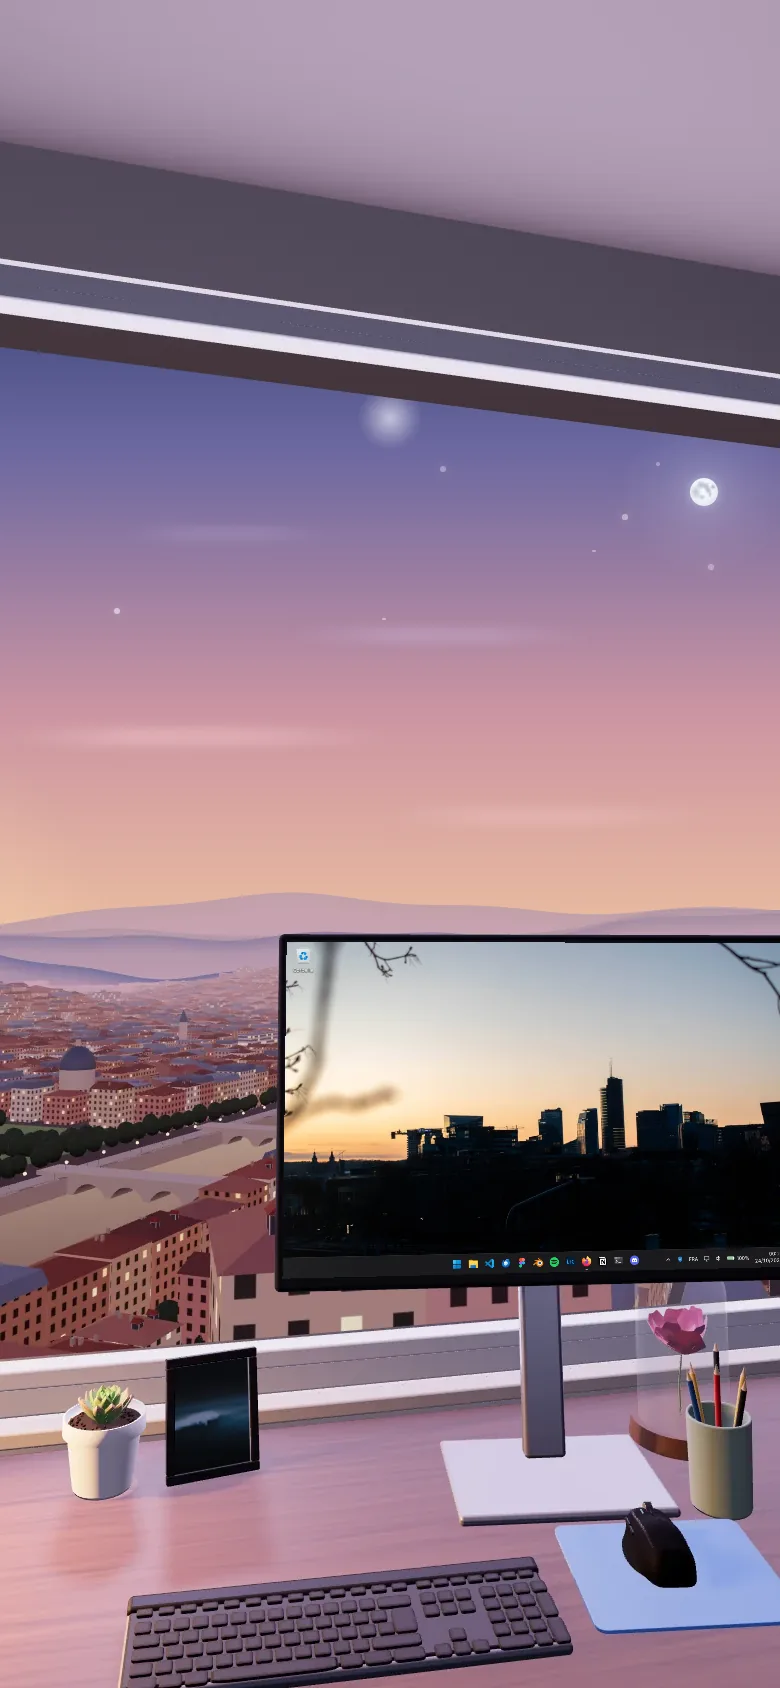
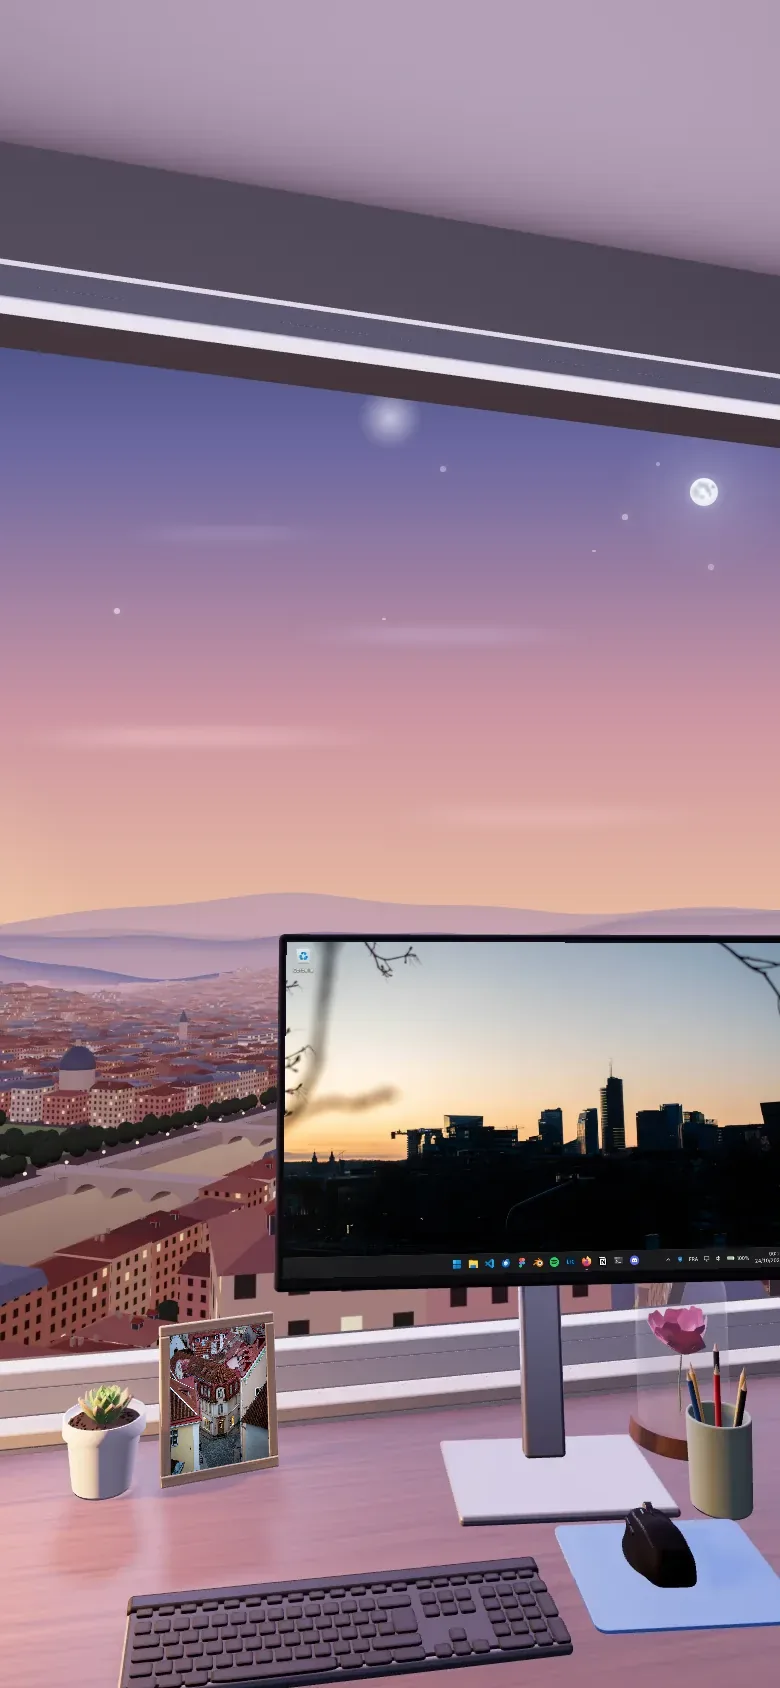
✨ feat(office): enlarge the desk frame in light wood with Grégoire's photos
- The small frame on the desk is 1.3 times larger, in the same 4:5 format, in light wood with its grain along each side.
- The wave moves to the portrait photo frame of the wall; the desk frame draws from 14 photos by Grégoire.
- The desk layers, their placement and the still images are redrawn; the office spec follows.

Changed region(s): [[0.1846, 0.7701, 0.3692, 0.8934]]

diff --git a/src/scene/office/objects.ts b/src/scene/office/objects.ts
@@ -59,7 +59,7 @@ const PLACES = {
   mouse: [0.67, -0.775, -0.2, 0.0036],
   lamp: [-0.5, -1.04, 0],
   plant: [-0.68, -0.6, 0.4],
-  frame: [0.19, -1.07, 0.16],
+  frame: [0.2, -1.07, 0.16],
   succulent: [0.05, -1.08, 0.3],
   rose: [0.85, -1.04, 4.26],
   pencils: [0.8, -0.86, 0],
@@ -77,15 +77,22 @@ const lathe = (points: readonly (readonly [number, number])[], material: Materia
     material,
   );
 
-function woodTexture(): ReturnType<typeof canvasTexture> {
+/** A wood grain running along the texture's width: the desk's dark wood, or the light wood of the photo frame. */
+const WOODS = {
+  dark: { base: '#5a3a26', grain: ['38,22,13', '118,80,50'] },
+  light: { base: '#d8bc94', grain: ['150,108,68', '240,222,196'] },
+} as const;
+
+function woodTexture(kind: keyof typeof WOODS = 'dark'): ReturnType<typeof canvasTexture> {
+  const { base, grain } = WOODS[kind];
   return canvasTexture(1024, 256, (ctx, w, h) => {
-    ctx.fillStyle = '#5a3a26';
+    ctx.fillStyle = base;
     ctx.fillRect(0, 0, w, h);
     const r = rng(41);
     for (let i = 0; i < 150; i += 1) {
       const y = r() * h;
       const amp = 2 + r() * 6;
-      ctx.strokeStyle = `rgba(${r() < 0.5 ? '38,22,13' : '118,80,50'},${String(0.07 + r() * 0.16)})`;
+      ctx.strokeStyle = `rgba(${r() < 0.5 ? grain[0] : grain[1]},${String(0.07 + r() * 0.16)})`;
       ctx.lineWidth = 0.6 + r() * 2.2;
       ctx.beginPath();
       for (let x = 0; x <= w; x += 16) {
@@ -565,23 +572,29 @@ function buildPlant(): Group {
 }
 
 /**
- * A small photo frame standing on the desk, leaning back on its strut: a slim black frame around a photo in the 4:5
- * format, whose face is white (the site lays a photo over it, picked at random).
+ * A small photo frame standing on the desk, leaning back on its strut: a slim frame of light wood around a photo in
+ * the 4:5 format, whose face is white (the site lays a photo over it, picked at random). The grain runs along each
+ * side of the frame.
  */
 function buildDeskFrame(): Group {
   const g = new Group();
-  const iw = 0.1;
-  const ih = 0.125;
-  const bd = 0.011;
+  const iw = 0.13;
+  const ih = 0.1625;
+  const bd = 0.013;
   const ow = iw + 2 * bd;
   const oh = ih + 2 * bd;
+  const across = woodTexture('light');
+  across.repeat.set(0.25, 0.05);
+  const along = across.clone();
+  along.rotation = Math.PI / 2;
+  const rail = std(0xffffff, 0.6, 0, { map: across });
+  const stile = std(0xffffff, 0.6, 0, { map: along });
   const face = new Group();
-  const black = std(0x1d1b1a, 0.55);
-  face.add(box(ow, bd, 0.012, black, 0, oh - bd / 2, 0, 0.002));
-  face.add(box(ow, bd, 0.012, black, 0, bd / 2, 0, 0.002));
-  face.add(box(bd, ih, 0.012, black, -ow / 2 + bd / 2, oh / 2, 0, 0.002));
-  face.add(box(bd, ih, 0.012, black, ow / 2 - bd / 2, oh / 2, 0, 0.002));
-  face.add(box(ow - 0.004, oh - 0.004, 0.003, std(0x2a2725, 0.8), 0, oh / 2, -0.0045));
+  face.add(box(ow, bd, 0.012, rail, 0, oh - bd / 2, 0, 0.002));
+  face.add(box(ow, bd, 0.012, rail, 0, bd / 2, 0, 0.002));
+  face.add(box(bd, ih, 0.012, stile, -ow / 2 + bd / 2, oh / 2, 0, 0.002));
+  face.add(box(bd, ih, 0.012, stile, ow / 2 - bd / 2, oh / 2, 0, 0.002));
+  face.add(box(ow - 0.004, oh - 0.004, 0.003, std(0xb59670, 0.8), 0, oh / 2, -0.0045));
   const picture = box(iw, ih, 0.0015, std(0xffffff, 0.9), 0, oh / 2, 0.0035);
   picture.name = 'picture-desk';
   const data: PictureData = { type: 'photo', w: iw, h: ih, d: 0.0015 };
@@ -589,7 +602,7 @@ function buildDeskFrame(): Group {
   face.add(picture);
   face.rotation.x = -11 * DEG;
   g.add(face);
-  const strut = box(0.018, 0.12, 0.004, black, 0, 0.055, -0.045);
+  const strut = box(0.022, 0.155, 0.004, stile, 0, 0.07, -0.058);
   strut.rotation.x = 0.42;
   g.add(strut);
   return g;

diff --git a/docs/specs/2026-10-21-maquette-v3-bureau.md b/docs/specs/2026-10-21-maquette-v3-bureau.md
@@ -35,17 +35,17 @@ Le parcours finit là où le rêve commence : la caméra repasse par la fenêtre
   - à gauche, six images collées directement au mur avec de la Patafix, invisible, qui remplissent tout le mur jusqu'à la fenêtre, quitte à passer derrière le texte du contact, la lampe et la plante : des affiches et une pochette imprimées à fond perdu, des photos et une image de film tirées avec leur liseré blanc, une peinture avec la large marge d'un tirage d'art (voir « Les images » ci-dessous) ;
   - à partir du centre, une grande baie d'un seul tenant, au cadre fin et blanc, sans montant, qui s'étend vers la droite jusqu'à sortir du cadre, derrière l'écran ; son appui est juste au-dessus du plateau du bureau. Le ciel occupe le haut, la ville le bas ;
   - à droite, au premier plan, l'écran sur son pied, au format 16:10 d'un écran de bureau classique (un 32 pouces), à peine tourné vers nous (tourné davantage, il paraîtrait étiré au bord d'une vue aussi large), le MX Keys devant lui et, à sa droite, une souris dans l'esprit de la Logitech G502 de Grégoire (dos haut, large repose-pouce, boutons latéraux, molette cerclée de métal, trois petites lumières bleues), posée sur un petit tapis de souris bleu pastel ;
-  - le bureau est en bois sombre. La lampe allumée, dans l'esprit de l'Anglepoise Type 75 Mini (pied rond, un seul bras courbe, tête faite d'un court cylindre qui s'évase en cloche, éclairée dedans), se tient à gauche entre les images et la fenêtre et éclaire le bureau à gauche du clavier, pas la plante ; elle cache bien moins les images qu'avant, et pas la ville ; la plante au coin gauche, petite et basse pour cacher peu le mur (réduite le 23 octobre 2026), dont chaque tige finit sur une feuille ; un petit cadre photo noir (une photo de 10 × 12,5 cm), posé contre l'appui de la fenêtre, à gauche du pied de l'écran, et à sa gauche une plante grasse à peu près de la taille du cadre, dans un pot blanc : une échévéria d'après la photo de Grégoire, rosette compacte de feuilles charnues, plates et pointues, en cuillère, vert tendre au centre, les plus extérieures rosées à la pointe, un peu plus petite que l'ouverture du pot pour qu'on voie la terre autour (23 octobre 2026) ; la rose sous son globe au fond à droite, sous l'écran surélevé, entre son pied et le pot à crayons ; le pot à crayons à droite de l'écran.
+  - le bureau est en bois sombre. La lampe allumée, dans l'esprit de l'Anglepoise Type 75 Mini (pied rond, un seul bras courbe, tête faite d'un court cylindre qui s'évase en cloche, éclairée dedans), se tient à gauche entre les images et la fenêtre et éclaire le bureau à gauche du clavier, pas la plante ; elle cache bien moins les images qu'avant, et pas la ville ; la plante au coin gauche, petite et basse pour cacher peu le mur (réduite le 23 octobre 2026), dont chaque tige finit sur une feuille ; un petit cadre photo en bois clair (une photo de 13 × 16,25 cm ; agrandi et passé du noir au bois clair le 30 octobre 2026 à la demande de Grégoire), posé contre l'appui de la fenêtre, à gauche du pied de l'écran, et à sa gauche une plante grasse à peu près de la taille du cadre, dans un pot blanc : une échévéria d'après la photo de Grégoire, rosette compacte de feuilles charnues, plates et pointues, en cuillère, vert tendre au centre, les plus extérieures rosées à la pointe, un peu plus petite que l'ouverture du pot pour qu'on voie la terre autour (23 octobre 2026) ; la rose sous son globe au fond à droite, sous l'écran surélevé, entre son pied et le pot à crayons ; le pot à crayons à droite de l'écran.
 - **Les images** (23 octobre 2026) :
   - **cinq types** : affiche de film (cadre 2:3), image de film (16:9, type créé pour l'image de Spider-Verse), peinture (3:2), photo (un cadre 4:5 en portrait et un 4:3 en paysage au mur, le petit cadre 4:5 du bureau) et pochette d'album (1:1) ;
   - **sur le mur**, sur ordinateur seulement (sur mobile, le mur est hors champ), six cadres disposés comme les aplats d'avant : en haut, l'image de film et la peinture ; à gauche, l'affiche, plus grande qu'avant (42 × 63 cm) ; à droite, une colonne avec la photo en portrait, la photo en paysage, derrière le texte du contact, et la pochette. Le texte, la lampe et la plante passent devant, avec l'accord de Grégoire ;
   - **sur le bureau**, le petit cadre tient une photo en portrait : c'est la seule image visible sur mobile ;
   - **chaque image appartient à un seul cadre** et n'apparaît jamais dans un autre. Elle est recadrée au format de son cadre, autour d'un point d'intérêt propre, mais jamais du portrait au paysage ni l'inverse, ni du 16:9 au carré ni l'inverse (règle de Grégoire) ;
   - **au hasard** : à chaque visite, chaque cadre tire l'une de ses images ; un cadre qui en a plusieurs en change à chaque nouveau tirage (la Corbeille de l'écran en relance un, section 6) ;
-  - **la sélection actuelle**, une image par cadre : l'affiche de Projet Dernière Chance (Project Hail Mary) ; une image de Spider-Man : New Generation (Into the Spider-Verse) ; Nighthawks d'Edward Hopper ; la pochette de Drivin Thru the Night ; au mur, le parapluie de Liam Wong en portrait et Earthrise en paysage, avec sa mention « NASA, Apollo 8, Bill Anders » ; sur le bureau, la vague. Le 29 octobre 2026, Grégoire en a envoyé d'autres, tirées au sort avec les premières : les affiches de Blade Runner 2049 et d'Avengers (The Avengers), une image de Blade Runner 2049 (Ash Thorp et Maciej Kuciara, crédités sur le cartel), les pochettes d'Evolve (Imagine Dragons), d'AVĪCI (01) (Avicii), de DSVII (M83) et de Blood Harmony (FINNEAS), L'Île des morts d'Arnold Böcklin et Les Marais pontins au coucher du soleil d'August Kopisch, et deux photographies en portrait : une ruelle de Tokyo sous la pluie de Liam Wong et Misty Fields d'Henri Prestes. Il enverra d'autres images pour chaque cadre, de 600 px de côté au moins ; la maquette en garde des versions légères (WebP, 5 à 31 Ko) ;
+  - **la sélection actuelle**, une image par cadre : l'affiche de Projet Dernière Chance (Project Hail Mary) ; une image de Spider-Man : New Generation (Into the Spider-Verse) ; Nighthawks d'Edward Hopper ; la pochette de Drivin Thru the Night ; au mur, le parapluie de Liam Wong en portrait et Earthrise en paysage, avec sa mention « NASA, Apollo 8, Bill Anders » ; sur le bureau, la vague (passée au cadre photo en portrait du mur le 30 octobre 2026, quand le petit cadre a reçu 14 photographies de Grégoire, en portrait, tirées au hasard comme les autres). Le 29 octobre 2026, Grégoire en a envoyé d'autres, tirées au sort avec les premières : les affiches de Blade Runner 2049 et d'Avengers (The Avengers), une image de Blade Runner 2049 (Ash Thorp et Maciej Kuciara, crédités sur le cartel), les pochettes d'Evolve (Imagine Dragons), d'AVĪCI (01) (Avicii), de DSVII (M83) et de Blood Harmony (FINNEAS), L'Île des morts d'Arnold Böcklin et Les Marais pontins au coucher du soleil d'August Kopisch, et deux photographies en portrait : une ruelle de Tokyo sous la pluie de Liam Wong et Misty Fields d'Henri Prestes. Il enverra d'autres images pour chaque cadre, de 600 px de côté au moins ; la maquette en garde des versions légères (WebP, 5 à 31 Ko) ;
   - **la lumière** : dans les rendus, la face de chaque image est blanche ; l'image, posée dessus en HTML, s'y multiplie et prend ainsi la lumière de la pièce, froide à l'aube, chaude près de la lampe ;
   - **les cartels** : sur ordinateur, au survol d'une image, un petit cartel apparaît sous elle, ou à sa droite là où il couvrirait le texte : le titre en italique léger (Libre Franklin 300, 16 px), puis l'auteur et l'année (Manrope 12 px), sur le fond sombre de la bulle mobile (#19191B, filet clair). Il apparaît en 200 ms en glissant de 4 px (sans glissement avec le mouvement réduit) et s'efface en 140 ms. Le texte du contact garde la souris : la photo en paysage, derrière lui, n'a pas de cartel. Sur mobile, un toucher sur le petit cadre affiche son cartel au-dessus de lui, et un toucher ailleurs le ferme. Pour les lecteurs d'écran, les images restent décoratives ;
-  - **ce que dit un cartel** : seulement ce qui est connu, et le cartel s'adapte : sans titre, l'auteur passe en premier (le parapluie : « Liam Wong ») ; sans rien de connu, pas de cartel (la vague, sur le bureau : sur mobile, le petit cadre n'a donc pas de cartel pour l'instant). La pochette : « Drivin Thru the Night », Petit Biscuit, 2020. En français, les films portent leur titre français seul ; le site en anglais donne les titres originaux. Le cartel n'affiche ni le type de l'image ni, en français, le titre original (choix de Grégoire, 29 octobre 2026).
+  - **ce que dit un cartel** : seulement ce qui est connu, et le cartel s'adapte : sans titre, l'auteur passe en premier (le parapluie : « Liam Wong ») ; sans rien de connu, pas de cartel (la vague, au mur, et les photos de Grégoire sur le bureau : sur mobile, le petit cadre n'a donc pas de cartel pour l'instant). La pochette : « Drivin Thru the Night », Petit Biscuit, 2020. En français, les films portent leur titre français seul ; le site en anglais donne les titres originaux. Le cartel n'affiche ni le type de l'image ni, en français, le titre original (choix de Grégoire, 29 octobre 2026).
 - **Style** : celui de la planète, sans photoréalisme : formes simples aux arêtes adoucies, matières mates, couleurs feutrées, ombres douces, même rendu (tone mapping ACES, ombres adoucies).
 - **Mobile** : cadrage vertical. L'œil se place un peu plus haut (1,40 m) et plus à droite, recule un peu et lève les yeux (7°, champ de 80° en hauteur, tourné de 13° vers la droite) : le ciel de la fenêtre en haut (la planète, puis le texte, qui tient entre le haut de la fenêtre et le haut de l'écran), la ville à gauche de l'écran, l'écran à droite avec la rose et le pot à crayons, la souris et le clavier en bas.
 
